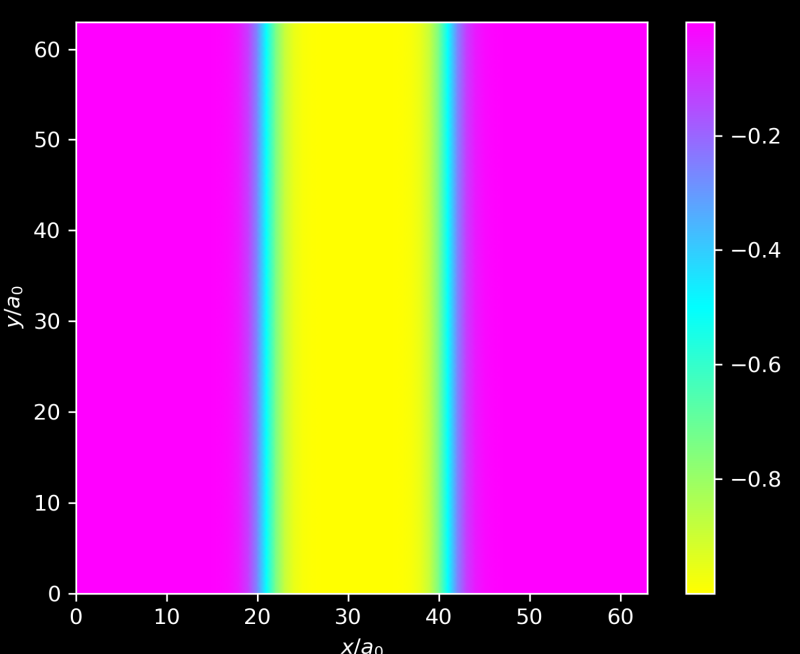
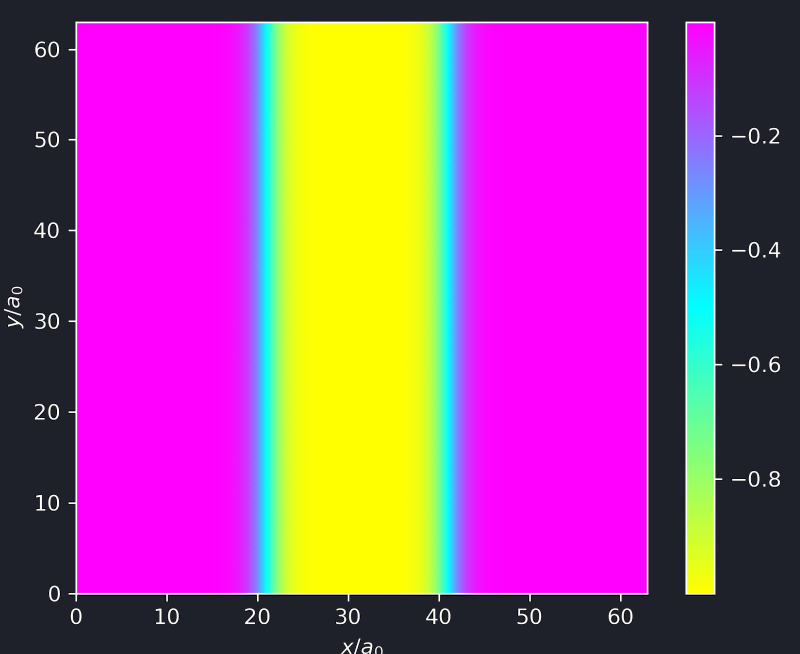
Changed background inverted image colors

diff --git a/docs/images/color_inversion_script.py b/docs/images/color_inversion_script.py
@@ -1,4 +1,4 @@
-from PIL import Image, ImageOps, ImageSequence
+from PIL import Image, ImageOps, ImageSequence, ImageChops
 import os
 
 def delete_previous_conversions(folder_path, suffix='-colorinverted'):
@@ -20,17 +20,33 @@ def invert_colors(image):
     else:
         return ImageOps.invert(image)
 
-def invert_image_colors(image_path, output_path):
+def change_black_to_color(image, new_color):
+    data = image.getdata()
+    
+    newData = []
+    for item in data:
+        # Change black (also nearly black shades) to new_color
+        if item[0] <= 5 and item[1] <= 5 and item[2] <= 5:
+            newData.append(new_color)  # Changing black to new_color
+        else:
+            newData.append(item)
+
+    image.putdata(newData)
+    return image
+
+def invert_image_colors(image_path, output_path, new_color=(30,33,41)):  # Default new color is blue
     with Image.open(image_path) as img:
         if img.format == 'GIF':
             frames = []
             for frame in ImageSequence.Iterator(img):
                 inverted_frame = invert_colors(frame)
-                frames.append(inverted_frame.convert('P', palette=Image.ADAPTIVE))  # Convert back to P mode with an adaptive palette
+                color_changed_frame = change_black_to_color(inverted_frame, new_color)
+                frames.append(color_changed_frame.convert('P', palette=Image.ADAPTIVE))
             frames[0].save(output_path, save_all=True, append_images=frames[1:], loop=0, duration=img.info.get('duration', 100), optimize=False)
         else:
             inverted_image = invert_colors(img)
-            inverted_image.save(output_path)
+            color_changed_image = change_black_to_color(inverted_image, new_color)
+            color_changed_image.save(output_path)
 
 def process_folder(folder_path):
     delete_previous_conversions(folder_path)
